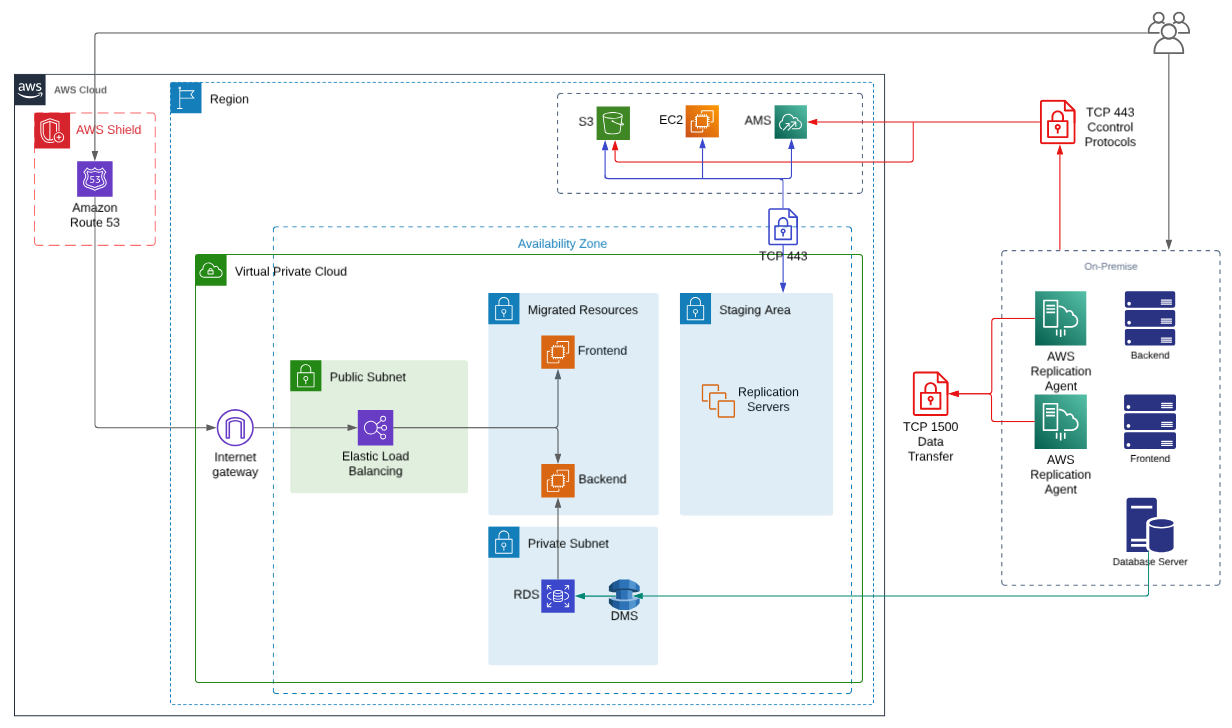
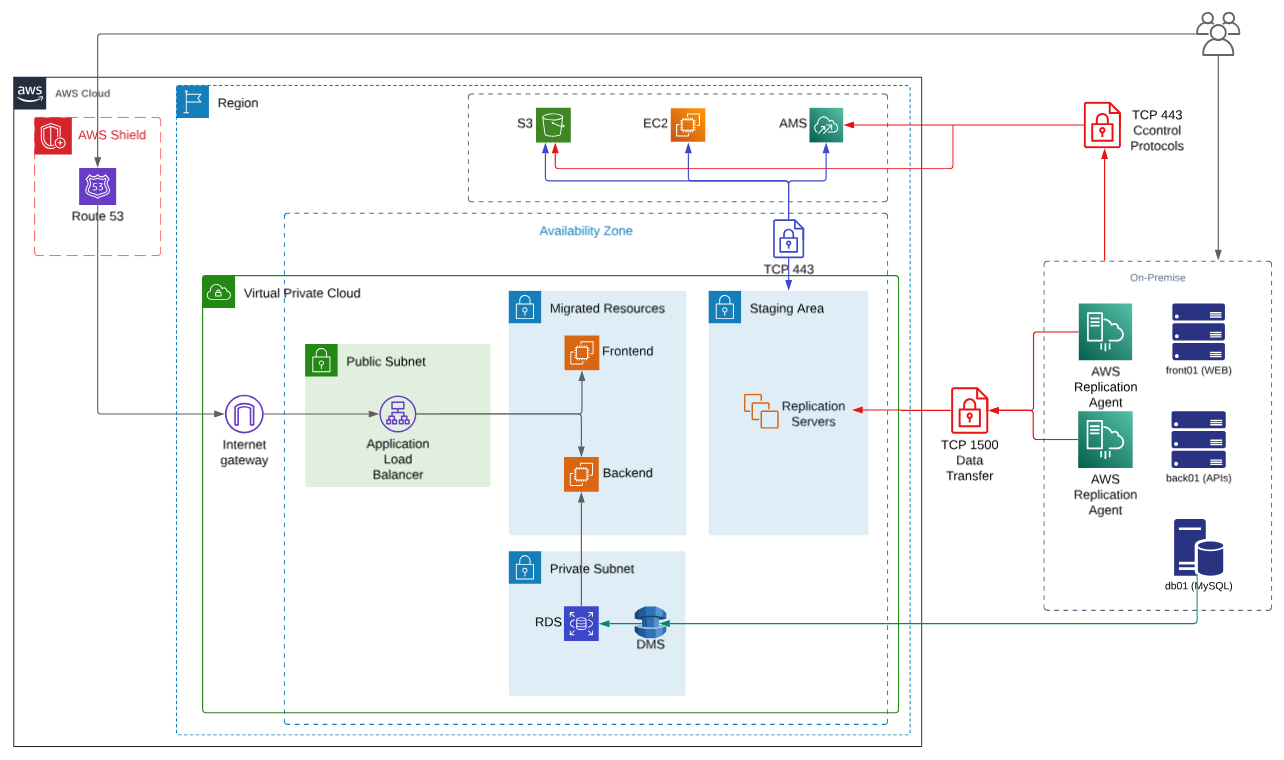
minor improvements

diff --git a/README.md b/README.md
@@ -89,42 +89,41 @@ Porém antes da migração acontecer para a nova estrutura, precisamos fazer uma
 **2. Rede Segura**
 
 - A `VPC` separa os recursos em sub-redes públicas e privadas.
-- Apenas o `Elastic Load Balancer` está na sub-rede pública.
+- Apenas o `Application Load Balancer` está na sub-rede pública.
 - Servidores frontend, backend e banco de dados estão isolados em sub-redes privadas sem acesso direto à Internet.
 
 **3. Controle de Acesso**
 
-- Security Groups: Controlam o tráfego de entrada e saída nas instâncias. Apenas o ELB pode acessar as instâncias frontend.
+- Security Groups: Controlam o tráfego de entrada e saída nas instâncias. Apenas o `ELB` pode acessar as instâncias `EC2`.
 - Network ACLs: Adicionam uma camada adicional de segurança na sub-rede.
 
 **4. Armazenamento Seguro**
 
-- Dados no Amazon S3 podem ser criptografados usando chaves gerenciadas pela AWS ou pelo cliente.
-- O Amazon RDS oferece criptografia em repouso e backups automáticos.
+- O `RDS` oferece criptografia em repouso e backups automáticos.
 
 **5. Autenticação e Autorização**
 
-- Integração com AWS IAM para controle de acesso a recursos.
-- Pode-se usar autenticação multi-fator (MFA) para acessar a AWS Management Console.
+- Integração com `IAM` para controle de acesso a recursos.
+- Pode-se usar autenticação multi-fator (MFA) para acessar a `AWS Management Console`.
 
-**6. Entrega de Conteúdo Segura**
+**6. Monitoramento e Logs**
 
-- Amazon CloudFront suporta HTTPS para criptografia de ponta a ponta.
-- Certificados SSL/TLS são configurados para proteger o tráfego.
-
-**7. Monitoramento e Logs**
-
-- AWS CloudWatch monitora métricas, logs e eventos.
-- AWS CloudTrail rastreia atividades no ambiente AWS para auditoria de segurança.
+- `AWS CloudWatch` monitora métricas, logs e eventos.
+- `AWS CloudTrail` rastreia atividades no ambiente AWS para auditoria de segurança.
 
 ### Como será realizado o processo de Backup?
 
-O processo de backup será realizado utilizando o serviço `AWS Backup`. Este serviço centraliza e automatiza os processos de backup, que neste contexto, será para os serviços `RDS` (banco de dados), `S3` (estáticos) e `EBS` (volumes dos servidores). Configurando o plano de backup, o `AWS Backup` realizará os processos de backup de acordo com a frequencia ou política de retenção estabelecida. Os dados de backup ficarão em um ambiente seguro, logicamente isolado e autogerenciado, também contendo recursos de monitoramento, auditoria e operações de proteção de dados.
+**AWS Backup**
 
-A nível individual de cada serviço, o backup será realizado a partir dos seguintes recursos:
+- O processo de backup será realizado utilizando o serviço `AWS Backup`. Este serviço centraliza e automatiza os processos de backup, que neste contexto, será para os serviços `RDS` (banco de dados), `S3` (estáticos) e `EBS` (volumes dos servidores).
+
+- Configurando o plano de backup, o `AWS Backup` realizará os processos de backup de acordo com a frequencia ou política de retenção estabelecida. Os dados de backup ficarão em um ambiente seguro, logicamente isolado e autogerenciado, também contendo recursos de monitoramento, auditoria e operações de proteção de dados.
+
+**Recursos salvos**
+
+- A nível individual de cada serviço, o backup será realizado a partir dos seguintes recursos:
 
 - **RDS**: backups automáticos e criação de snapshots
-- **S3**: versionamento do bucket
 - **EBS**: criação de snapshots
 
 ### Qual o custo da infraestrutura na AWS (AWS Calculator)?
